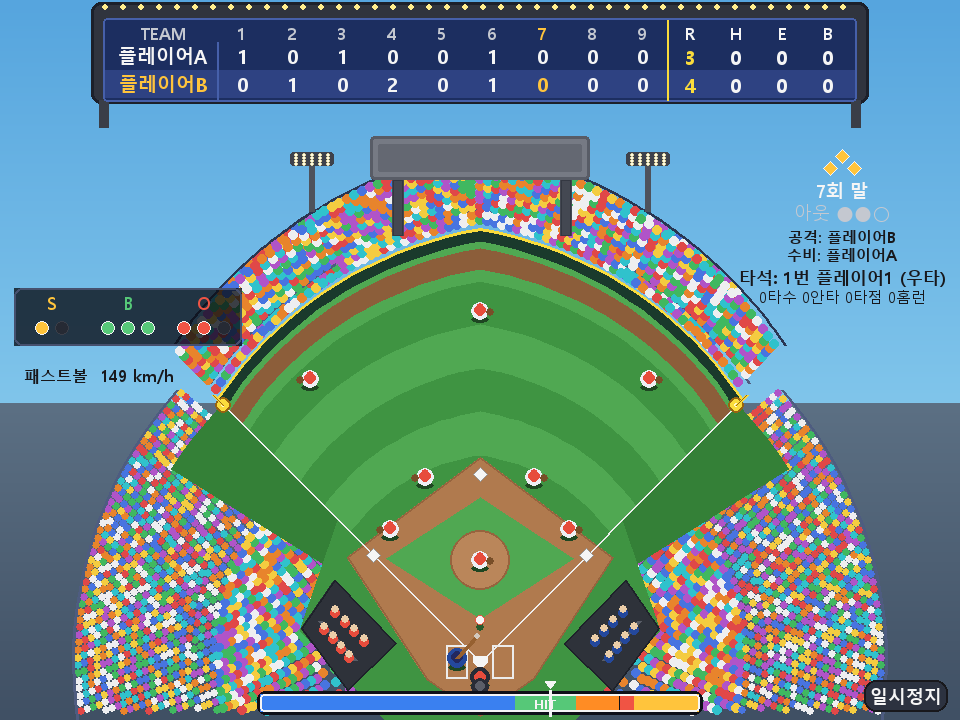
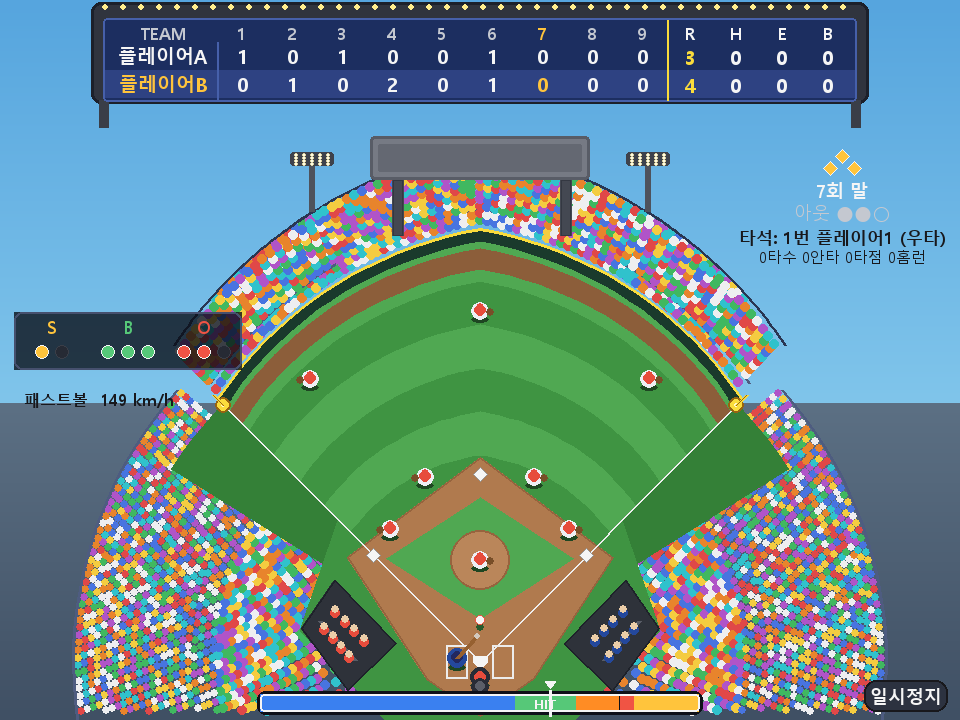
9회 종료 후 10회 표시 버그 수정, 투구 패널에 공격/수비·투수 정보 정리
- 9회말 생략·끝내기·무승부로 경기가 끝나는 순간, 이닝 표시가 존재하지
  않는 "10회"로 넘어가지 않고 마지막 9회 초/말 그대로 고정되도록 수정
- 구종 선택 패널(좌측)에 "공격/수비" 팀명을 투수 이름 위에 표시하고,
  우측 상태 패널의 중복 표시는 제거
- 인게임 투수 표시 문구를 "선발투수" -> "투수"로 축약
- 위 레이아웃 변경에 맞춰 스크린샷 갱신

Changed region(s): [[0.0, 0.3972, 0.25, 0.5806], [0.7812, 0.3056, 1.0, 0.4278]]

diff --git a/baseball/app.py b/baseball/app.py
@@ -43,7 +43,7 @@ SWING_ANIM_SEC = 0.30
 # 좌측 패널 위치(구종 선택 / S B O)
 LEFT_PANEL_X = 14
 PITCH_PANEL_Y = 112
-PITCH_PANEL_H = 166
+PITCH_PANEL_H = 190
 COUNT_PANEL_Y = PITCH_PANEL_Y + PITCH_PANEL_H + 10
 
 BASEPATH = [field.HOME, field.B1, field.B2, field.B3, field.HOME]
@@ -1379,17 +1379,10 @@ class PlayScene:
             outs = "●" * g.outs + "○" * (C.OUTS_PER_INNING - g.outs)
             draw_text(s, f"아웃 {outs}", 18, bx, by + 44, C.LIGHT_GRAY, center=True)
 
-        # 수비팀·타자 — 이닝/아웃 표시 아래(우측)
+        # 타자 — 이닝/아웃 표시 아래(우측)
         name, order = g.current_batter_name()
         hand = "우타" if g.batter_is_right() else "좌타"
         ty = by + 68
-        if not g.one_player:
-            draw_text(s, f"공격: {g.team_names[g.batting_team]}", 15, bx, ty,
-                      C.BLACK, center=True, bold=True)
-            ty += 18
-            draw_text(s, f"수비: {g.team_names[g.defending_team]}", 15, bx, ty,
-                      C.BLACK, center=True, bold=True)
-            ty += 22
         draw_text(s, f"타석: {order}번 {name} ({hand})", 17, bx, ty,
                   C.BLACK, center=True, bold=True)
         if not g.one_player:
@@ -1431,20 +1424,22 @@ class PlayScene:
         panel.fill((10, 14, 22, 215))
         s.blit(panel, (x, y))
         pygame.draw.rect(s, C.ACCENT2, (x, y, w, h), width=2, border_radius=8)
-        draw_text(s, f"{g.team_names[g.defending_team]} 수비", 18, x + 12, y + 16,
+        draw_text(s, f"공격: {g.team_names[g.batting_team]}", 16, x + 12, y + 14,
+                  C.WHITE, bold=True)
+        draw_text(s, f"수비: {g.team_names[g.defending_team]}", 16, x + 12, y + 34,
                   C.WHITE, bold=True)
         pitcher = g.pitchers[g.defending_team]
         if pitcher:
             hand = "우투" if g.pitcher_right[g.defending_team] else "좌투"
-            draw_text(s, f"선발투수: {pitcher} ({hand})", 15, x + 12, y + 38,
+            draw_text(s, f"투수: {pitcher} ({hand})", 15, x + 12, y + 58,
                       C.ACCENT2)
-        draw_text(s, "구종을 선택하세요", 16, x + 12, y + 60, C.LIGHT_GRAY)
+        draw_text(s, "구종을 선택하세요", 16, x + 12, y + 82, C.LIGHT_GRAY)
         if g.defending_team == 0:
             labels = ("[8] 패스트볼", "[9] 슬라이더", "[0] 커브")
         else:
             labels = ("[1] 패스트볼", "[2] 슬라이더", "[3] 커브")
         for i, lab in enumerate(labels):
-            draw_text(s, lab, 16, x + 12, y + 84 + i * 26, C.LIGHT_GRAY)
+            draw_text(s, lab, 16, x + 12, y + 106 + i * 26, C.LIGHT_GRAY)
 
     def _draw_count_panel(self, s):
         """S B O 카운트 현황판 (스트라이크=노랑, 볼=초록, 아웃=빨강)."""

diff --git a/baseball/gamestate.py b/baseball/gamestate.py
@@ -39,6 +39,9 @@ class LiveGame:
         self.walk_off = False
         self.skipped_bottom_9th = False
         self.game_tied = False
+        # 경기가 끝난 순간의 이닝 표시를 그대로 고정(9회 이후로 넘어가
+        # "10회 초" 처럼 보이지 않도록)
+        self._final_half_label = None
         # 팀별 좌우타 정보
         self.right = [list(C.DEFAULT_RIGHT), list(C.DEFAULT_RIGHT)]
         # 팀별 선발투수 이름·투구 손(표시용, 실제 투구 로직에는 영향 없음)
@@ -149,6 +152,8 @@ class LiveGame:
             self.solo_game_over = True
 
     def half_label(self):
+        if self._final_half_label is not None:
+            return self._final_half_label
         return f"{self.inning}회 {'초' if self.half == 'top' else '말'}"
 
     def format_batter_stats_compact(self, team_idx, slot):
@@ -217,6 +222,7 @@ class LiveGame:
             self.line[t].append(0)
 
     def _end_half(self):
+        pre_label = self.half_label()
         self.outs = 0
         self.bases = [False, False, False]
         if self.half == "top":
@@ -225,6 +231,7 @@ class LiveGame:
                     and self.score[1] > self.score[0]):
                 self.skipped_bottom_9th = True
                 self.inning = self.innings + 1
+                self._final_half_label = pre_label
                 return
             self.half = "bottom"
             self.batting_team = 1
@@ -235,7 +242,9 @@ class LiveGame:
             self.half = "top"
             self.batting_team = 0
             self.inning += 1
-        if not self.is_over():
+        if self.is_over():
+            self._final_half_label = pre_label
+        else:
             self.pending_inning_change = True
             self._begin_half()
 
@@ -260,6 +269,7 @@ class LiveGame:
         """9회말 홈팀이 1점이라도 앞서면 끝내기(홈팀 승리). 연장 없음."""
         if (self.inning == self.innings and self.half == "bottom"
                 and self.batting_team == 1 and self.score[1] > self.score[0]):
+            self._final_half_label = self.half_label()
             self.walk_off = True
             self.inning = self.innings + 1
             return True
